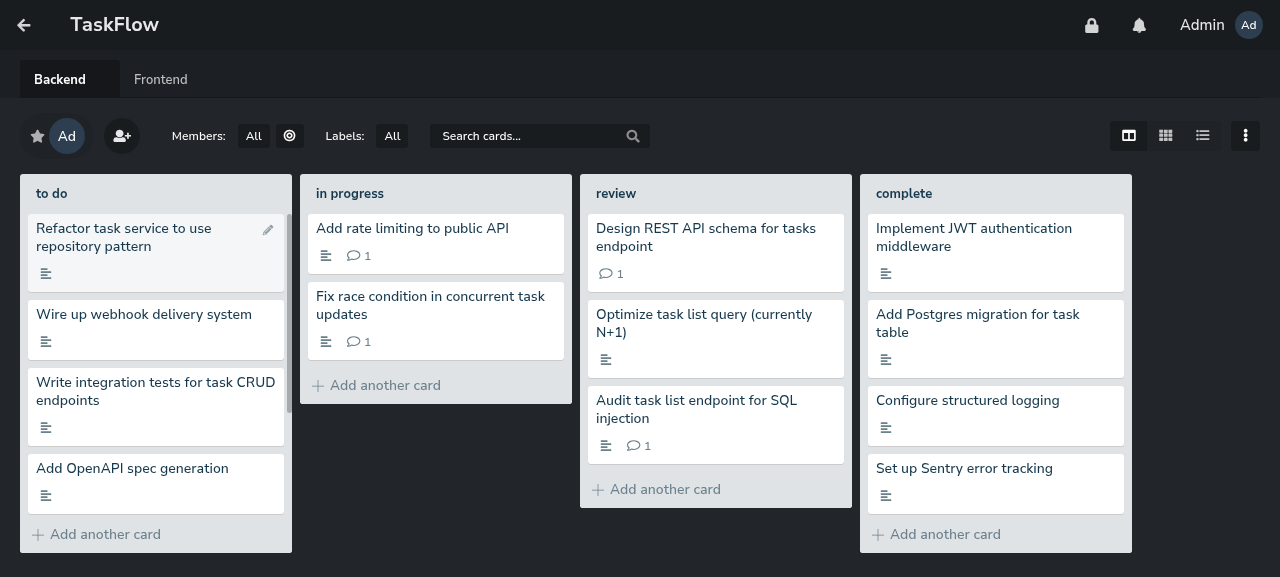
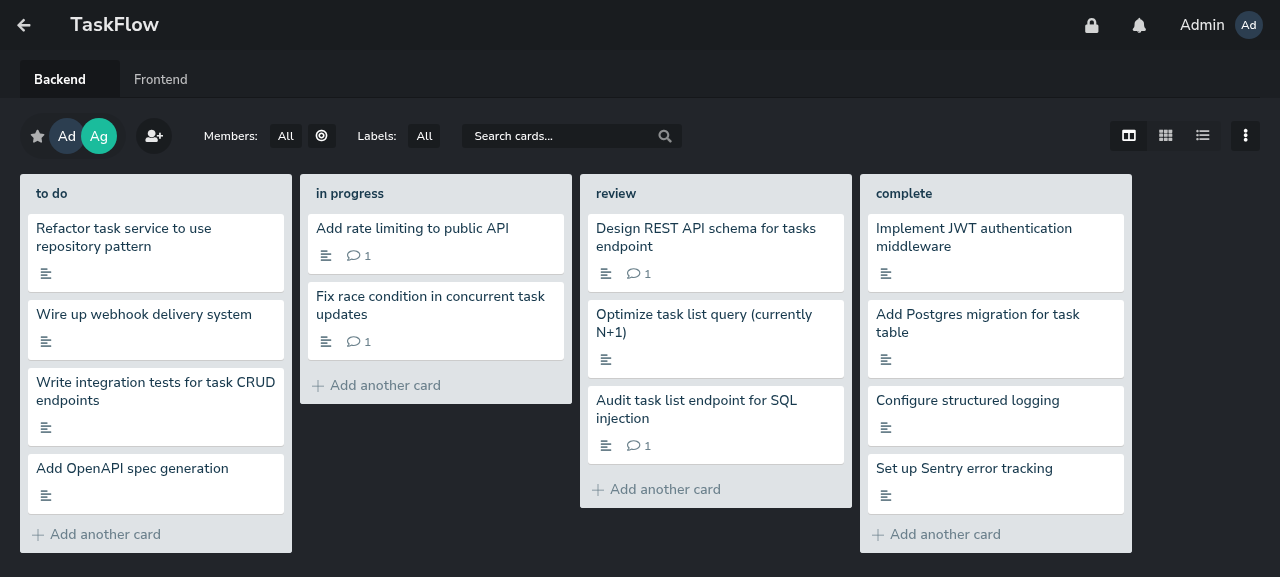
Apply round 2 audit fixes: Caddy CSP/Via/body-size, all images digest-pinned
Round 2 security audit findings closed:
- Sandbox CSP now applies to /attachments/* (was overridden by global CSP)
  Fix: mutually exclusive @user / @user matchers
- Via: 1.1 Caddy header stripped (was leaking proxy stack)
- request_body { max_size 25MB } added (closes "no payload size limit";
  900 KB descriptions + 10 MB uploads now bounded, 30 MB returns 413)
- Caddy + Postgres images digest-pinned (was floating :2-alpine / :15-alpine)
- Local docker-compose.yml aligned with production: Postgres 15 (not 16),
  Planka pinned to same digest as Railway

Postgres redeploy with new image pin reset the data volume mid-flight;
re-seeded the 25 TaskFlow tasks via plankapy. Screenshots refreshed from
the post-reseed state.

Operational lesson documented in deploy/railway/README.md: changing Postgres
image source in Railway can swap volumes — snapshot data first.

Still upstream (out of scope, documented in PR body):
- Login rate limiting (needs caddy-ratelimit custom build)
- 365-day JWT lifetime, no 2FA, JSON dup-key auth bypass
- Stored XSS via card description API (Caddy CSP 'unsafe-inline' doesn't
  neutralize it — React frontend escaping is the actual mitigation)

diff --git a/deploy/railway/README.md b/deploy/railway/README.md
@@ -28,9 +28,11 @@ Three Railway services in a single project (`clickup-tools-planka`):
 
 | Service | Type | Public? | Notes |
 |---------|------|---------|-------|
-| **caddy** | `caddy:2-alpine` | **Yes** (port 80) | Reverse proxy; injects security headers; only public entrypoint. Config in `caddy/Caddyfile`, shipped to Railway via `CADDYFILE_CONTENT` env var. |
+| **caddy** | `caddy@sha256:…` (digest-pinned) | **Yes** (port 80) | Reverse proxy; injects security headers; only public entrypoint. Config in `caddy/Caddyfile`, shipped to Railway via `CADDYFILE_CONTENT` env var. |
 | **planka** | `ghcr.io/plankanban/planka@sha256:…` (digest-pinned) | No | Internal-only at `planka.railway.internal:1337`. Persistent volume at `/app/private`. |
-| **postgres** | `postgres:15-alpine` | No | Internal-only at `postgres.railway.internal:5432`. Persistent volume at `/var/lib/postgresql/data`. |
+| **postgres** | `postgres@sha256:…` (digest-pinned, 15.18) | No | Internal-only at `postgres.railway.internal:5432`. Persistent volume at `/var/lib/postgresql/data`. |
+
+**Image pinning lesson:** changing the Postgres image source pin in Railway can swap volumes and reset the data dir. If you need to bump the Postgres image, snapshot the data first or be ready to re-seed.
 
 Caddy is what closes the bulk of the security audit's medium-severity findings
 (see `caddy/README.md` for the full list). Planka being internal-only means the